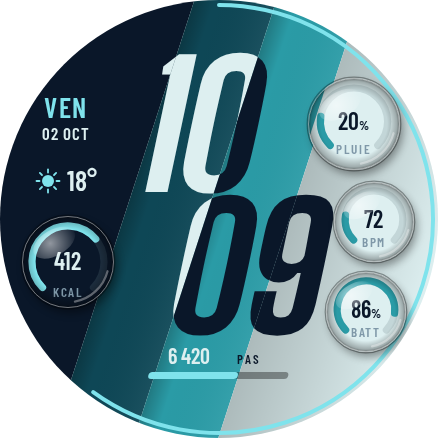
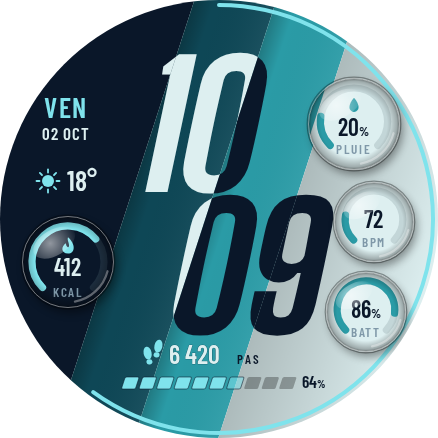
Prisme : pictogrammes et barre des pas en segments penchés
Goutte et flamme dans les dômes pluie et calories, empreintes devant le
nombre de pas. La barre des pas devient 10 segments penchés comme les
bandes, avec segment en cours à demi-teinte, contour sombre pour le
contraste sur toutes les bandes, et pourcentage au bout.

Claude-Session: https://claude.ai/code/session_01MEdY8gaQcWfzgRykkGgopN

Changed region(s): [[0.2671, 0.7717, 0.742, 0.8904], [0.7717, 0.2078, 0.8607, 0.3265], [0.1187, 0.5342, 0.2078, 0.653]]

diff --git a/concepts/prisme/README.md b/concepts/prisme/README.md
@@ -37,6 +37,10 @@ entre bandes se décale comme à travers une lentille), bord assombri (réfracti
 haut à gauche, croissant de lumière en bas à droite, ombre portée. En WFF : `Group` mis à
 l'échelle (`scaleX`/`scaleY`) sous un masque rond, verre et reflets en PNG translucide.
 
+Pictogrammes : goutte (pluie) et flamme (calories) dans les dômes ; empreintes devant le
+nombre de pas. Barre des pas en **10 segments penchés** comme les bandes (segment en cours à
+demi-teinte, contour sombre pour rester lisible sur toutes les bandes) et pourcentage au bout.
+
 ### Essai « 4 dômes »
 
 ![Essai 4 dômes](prisme-lagune-4domes.png)
